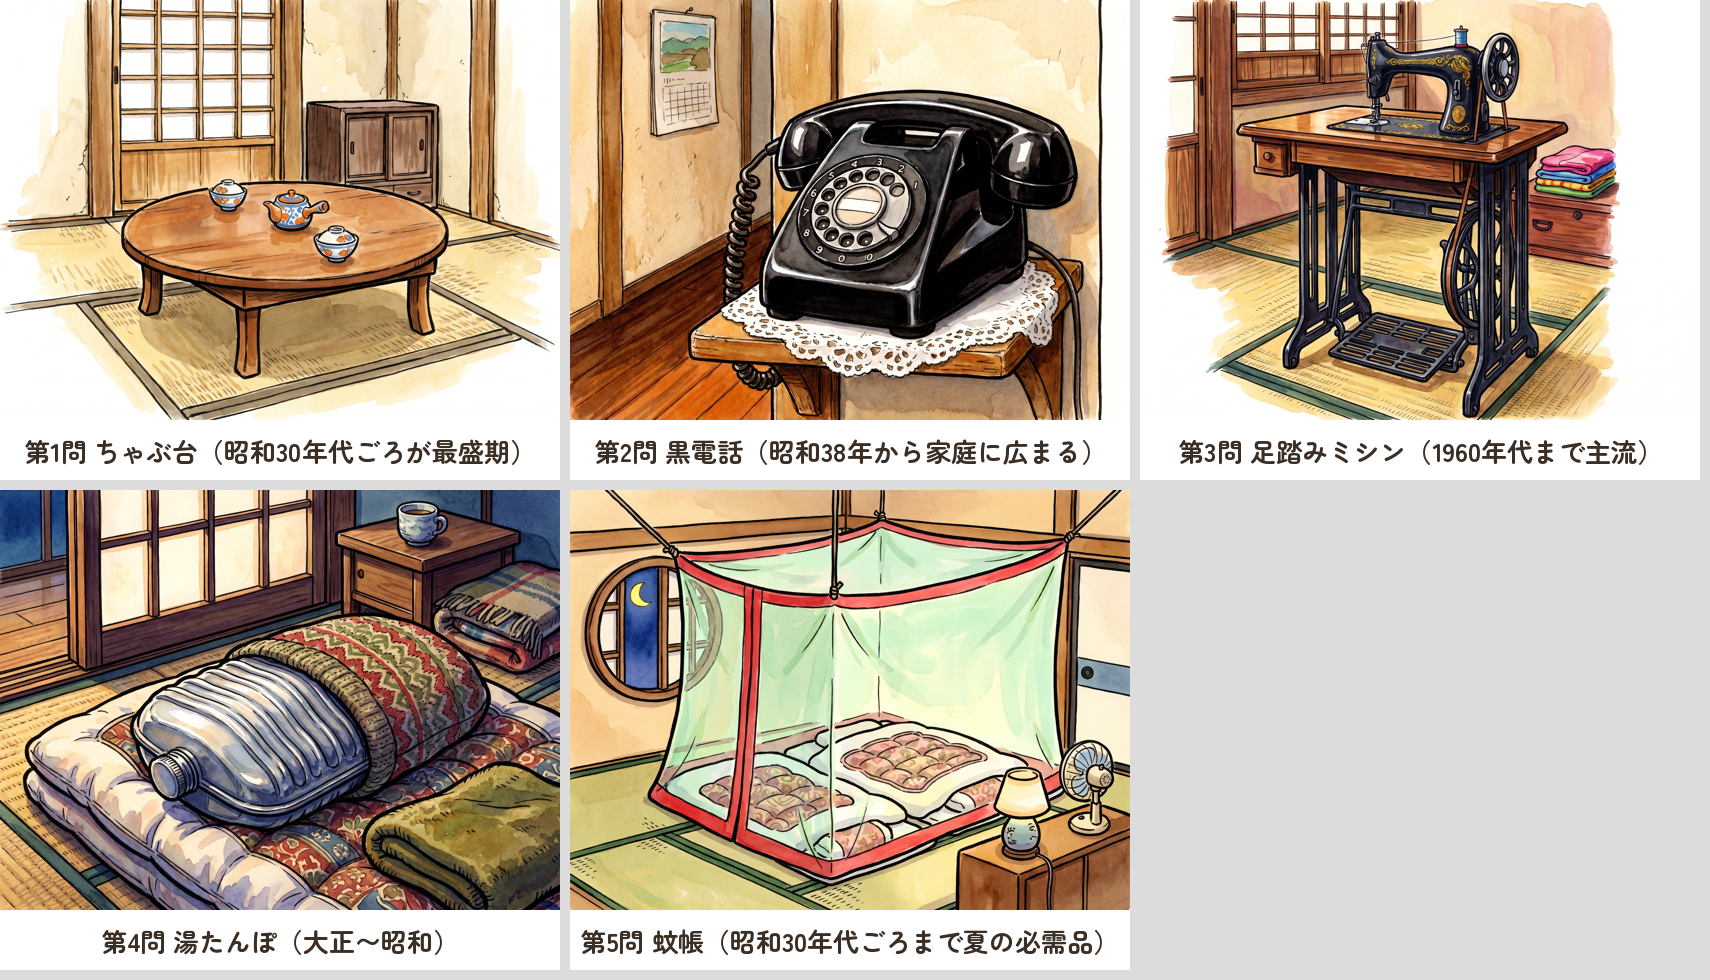
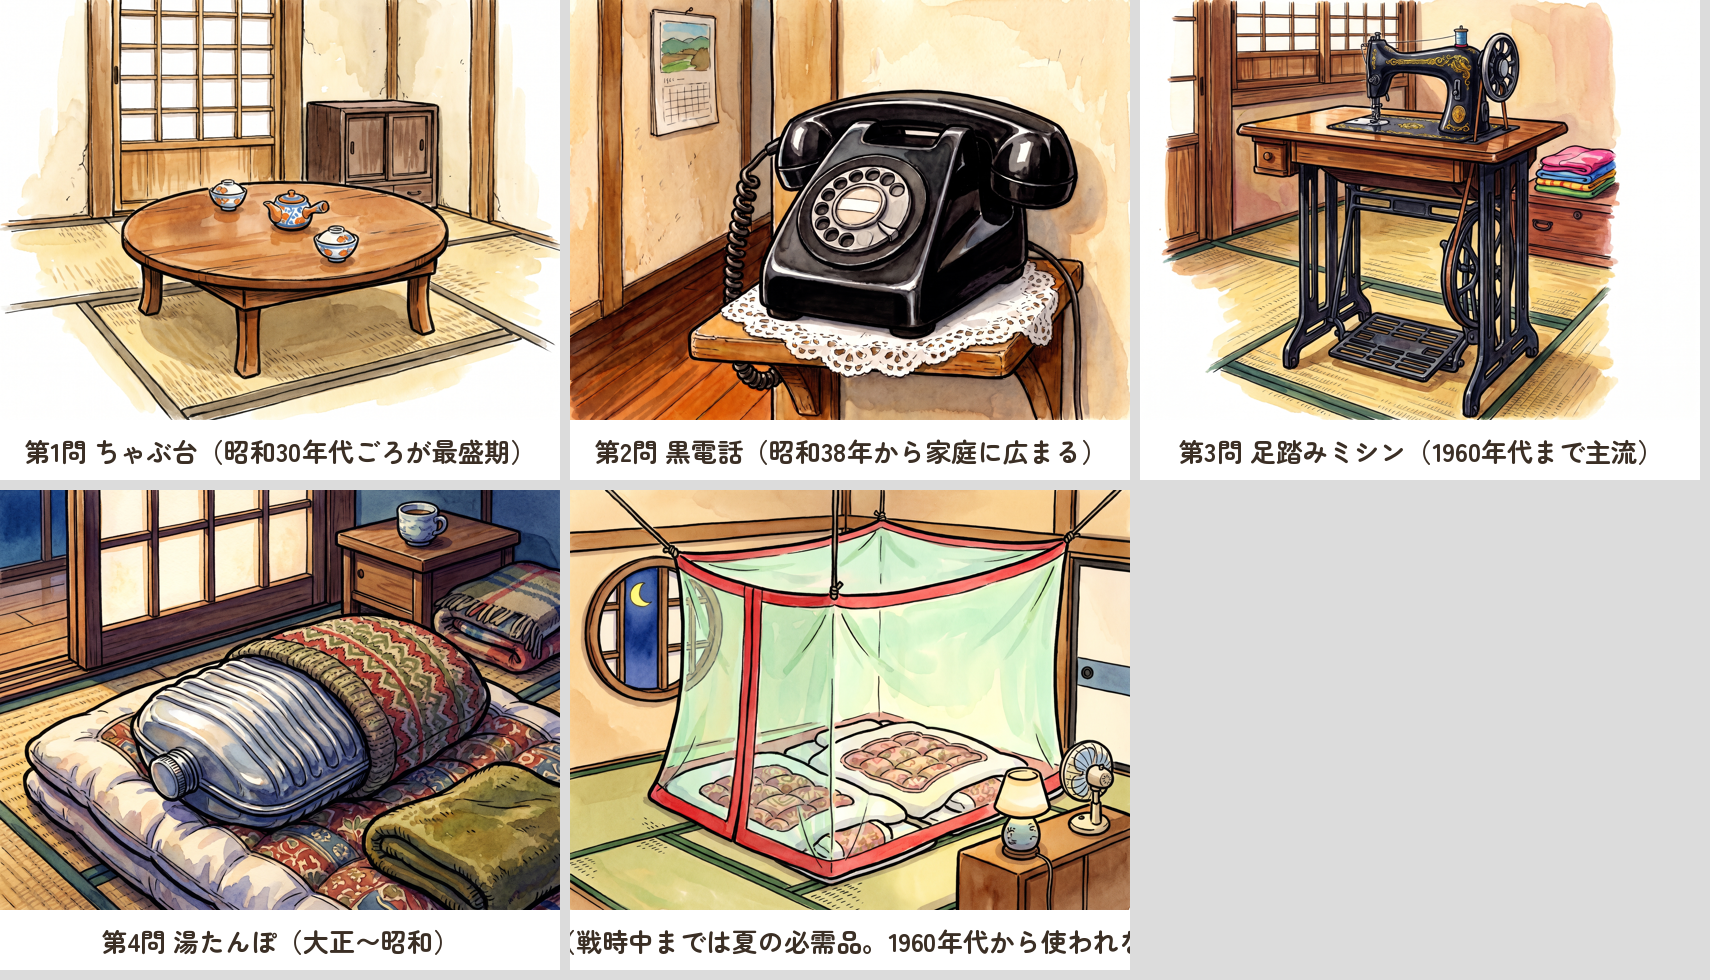
昭和なつかしクイズ 試作001：監査の指摘（黒電話のダイヤル・豆知識のはみ出し）を直して合格
Claude-Session: https://claude.ai/code/session_01RF3BnfrPSRk1U21VXW6Yry

Changed region(s): [[0.6199, 0.0, 0.6819, 0.4286], [0.3409, 0.949, 0.6509, 0.9796], [0.4959, 0.2143, 0.5269, 0.2755]]

diff --git a/scripts/showa_quiz.py b/scripts/showa_quiz.py
@@ -217,10 +217,13 @@ def frame_long(P, work, st, t, cache):
         name = it["name"]; sz = 130 if len(name) <= 4 else 96
         draw_center(d, (px, 420), name, f_bold(sz), INK)
         draw_center(d, (px, 540), f"（{it['reading']}）", f_round(44), (110, 84, 60))
-        if k == "trivia":
-            lines = wrap(it["trivia"], 11)
+        if k == "trivia":       # 右の欄（x 1310〜1910）の中に収める
+            fz = 50
+            lines = wrap_px(it["trivia"], f_round(fz), 560)
+            while len(lines) > 4:
+                fz -= 4; lines = wrap_px(it["trivia"], f_round(fz), 560)
             for i, l in enumerate(lines):
-                draw_center(d, (px, 680 + i * 70), l, f_round(52), INK)
+                draw_center(d, (px, 680 + i * (fz + 18)), l, f_round(fz), INK)
     return im
 
 
@@ -238,6 +241,28 @@ def wrap(s, n):
             res.append(l[:n]); l = l[n:]
         res.append(l)
     return res
+
+
+def wrap_px(s, f, maxw):
+    """文を、実際の文字幅（px）で maxw に収まるように改行する。読点・句点・助詞のあとを優先して切る（2026-11-18 監査 M-2）。"""
+    d = ImageDraw.Draw(Image.new("RGB", (10, 10)))
+    lines, cur, last_break = [], "", -1
+    for ch in s:
+        if d.textlength(cur + ch, font=f) > maxw and cur and ch not in "、。」）":   # 句読点は行の頭に置かない（前の行の終わりにぶら下げる）
+            if last_break > 0 and last_break >= len(cur) // 2:
+                lines.append(cur[:last_break]); cur = cur[last_break:]
+            else:
+                lines.append(cur); cur = ""
+            last_break = -1
+        cur += ch
+        if ch in "、。」）":
+            last_break = len(cur)
+    if cur:
+        lines.append(cur)
+    for l in lines:     # 念のため：枠をはみ出す行があれば止める
+        if d.textlength(l.rstrip("、。」）"), font=f) > maxw + 1:
+            raise SystemExit(f"文字が枠に収まらない：{l}")
+    return lines
 
 
 def subtitle(im, sub, W, H, y, size):
@@ -265,8 +290,8 @@ def frame_short(P, work, st, t, cache, end=False, t_end=0):
     if k in ("ans", "trivia"):
         draw_center(d, (W / 2, 1150), "答え", f_bold(64), (180, 70, 40))
         draw_center(d, (W / 2, 1270), it["name"], f_bold(130 if len(it["name"]) <= 4 else 100), INK)
-        if k == "trivia":
-            for i, l in enumerate(wrap(it["trivia"], 13)[:3]):
+        if k == "trivia":       # 左右36pxより内側（幅 900px まで）に収める
+            for i, l in enumerate(wrap_px(it["trivia"], f_round(54), 900)[:3]):
                 draw_center(d, (W / 2, 1410 + i * 66), l, f_round(54), INK)
     # 最初：暗い幕と大きな文字（ショートの形 2026-11-18 夜）
     if st.get("intro"):

diff --git a/outputs/prototypes/showa_quiz_001/audit.md b/outputs/prototypes/showa_quiz_001/audit.md
@@ -1,0 +1,63 @@
+# 品質監査：昭和なつかしクイズ 試作001（2026-11-18）
+
+- 審査：品質監査（独立・標準モデル）。作成：事業部長。CEO評価用の試作（公開・アップロードしない）。
+- 見たもの：plan.json、sources.md、readings_check.md、voice.json（~/.cache/koyomi/showa_quiz_001/voice/）、items_sheet.png、thumbnail.jpg、long_timeline.json、long.mp4（1920×1080・151.4秒）から数コマ（全体の一覧1枚＋答えの画面の拡大）、short2.mp4（1080×1920・33.7秒）から8コマ、scripts/showa_quiz.py の書体の指定。
+- 動画全体は見直していない（社則7章）。
+
+## 判定：不合格（差し戻し1回目）
+
+### 重大（直すもの）
+
+**M-1 第2問 黒電話のダイヤルの数字が実物と違う（事実の誤り・絵）**
+- どこが：item2 の絵。ダイヤルの外側に「1 2 3 4 5 6 7 8 9 0 10」と数字が11個あり、存在しない「10」がある（long.mp4 46秒の拡大で確認。サムネ・長尺・ショートの3か所に同じ絵）。
+- なぜ：この形式は「道具そのもの」が中身で、見る人は黒電話を毎日使った世代。実物にない数字はすぐ気づかれ、「AIの絵」と信頼を落とす。plan.json の絵の指示「Absolutely no ... numbers」にも反している。道具としてはひと目で黒電話とわかるが、絵の中の事実が誤っている。
+- どう直すか：item2 だけ描き直す（ダイヤルの数字は描かせない、または指穴の中に1〜9・0の10個だけ）。数字・指穴の数を拡大で確かめてから、長尺・ショート・サムネを書き出し直す。他の4枚は触らない。
+
+**M-2 長尺の答えの画面で、豆知識の文字が右の枠からはみ出し、画面の端で切れる（字が欠ける）**
+- どこが：
+  - 第2問（58.5秒）：2行目「ダイヤルを回してかけました。」が右の画面端（x=1920）まで届き「。」が出ていない。左は絵の上にかかる。
+  - 第5問（137.5秒）：1行目「萌黄色の網に、赤い縁取りが」の「が」の濁点が右端で切れ、「縁取りか」に見える。左の「萌」は絵の上（扇風機）にかかる。
+  - 第3問（85秒）：「踏み板を踏むと、ベルトで」が右端ぎりぎりで、左は絵にかかる。
+- なぜ：画面上の文字が欠けて別の字に見える（誤字と同じ扱い）。絵の上に文字が重なる。
+- どう直すか：豆知識の折り返し幅を右の枠の中（枠の左右に40px以上の余白）に固定し、読点の位置で改行する。書き出し前に、文字の外枠が枠の中に入るかをプログラムで判定する。動画の書き出しは M-1 とまとめて最後に1回。
+
+### 合格した項目
+- 答え・読み：ちゃぶ台（ちゃぶだい）・黒電話（くろでんわ）・足踏みミシン（あしぶみミシン）・湯たんぽ（ゆたんぽ）・蚊帳（かや）は sources.md と一致。ヒントの最初の文字「ち・く・あ・ゆ・か」は正しく、画面のヒント・答えの表示と声の文（voice.json）が一致。答えの表示は timeline どおりの時刻に出ている。
+- 豆知識：ちゃぶ台（脚を折りたためる物が多い＝コトバンク本文）、足踏みミシン（踏み板→ベルト→はずみ車＝コトバンク本文）、湯たんぽ（「たんぽ」は「湯婆」の唐音から＝コトバンク本文。「といわれます」と控えめ）、蚊帳（萌黄色の網に赤い縁＝コトバンク・Wikipedia本文）は出典どおり。
+- 医学的な効果：なし（湯たんぽ・蚊帳とも効果の言い方なし）。
+- 読み：voice.json の声に渡す文30行すべてに漢字なし。読みも正しい（ぜんごもん、だいよんもん、はずみぐるま、ふちどり、もえぎいろ、湯婆＝たんぽ、ひだりした、ちょうせん）。
+- 絵：5枚とも、ひと目でその道具とわかる（ちゃぶ台の丸い低い天板、黒電話の受話器とダイヤル、ミシンの踏み板・はずみ車・ベルト、湯たんぽの波型の金属と栓、蚊帳の緑の網と赤い縁）。水彩・太めの墨の線、背景（障子・畳・壁・窓）まで描かれている。時代に合わない物は見当たらない（蚊帳の場面の扇風機・電気スタンドは昭和30年代にあり得る。夏の物は夏の場面）。
+- ショート：最初と最後の暗い幕（約55%）と真ん中の大きな文字（太い角ゴシック）、最後に「続きは長い動画で」「左下をクリック」と左下を指す矢印、声は基準どおり。文字は左右60px以上・上は約170px以降で、左右36px・上120pxにかからない。8秒のカウントとヒント「く」あり。
+- サムネ：Noto Sans JP Black（太い角ゴシック、showa_quiz.py の BOLD）。「昭和なつかしクイズ／これ なに？／全5問」で意味のまとまりで色分け。医療表現なし。
+
+### 軽微（記録だけ。本番で直す）
+1. 第2問の豆知識「数字の穴に指を入れて、ダイヤルを回してかけました」は sources.md の推奨文（昭和46年から色が増えた）と違い、出典本文に直接の記述がない。ダイヤル式という定義から明らかで誤りではないが、本番では出典のある文にするか出典を足す。M-1 の絵（数字が穴の外）とも少し合わない。
+2. 年代（items_sheet のみ。動画・声には出ていない）：蚊帳「昭和30年代ごろまで夏の必需品」は出典（戦時中まで必需品、1960年代以降使われなくなった）より強い。使うなら「昭和の夏の定番」程度に。黒電話「昭和38年から」は Wikipedia だけ（NTT本文は未確認）。
+3. 第4問の字幕「湯婆」にふりがながない（「ゆば」と読まれうる）。
+4. 豆知識の改行が語の途中（第1問「折りた／ためる」、第4問「中国の言／葉」）。M-2 の直しで読点改行にすれば解消。
+5. 黒電話の絵の右端に白い縁（サムネ・長尺）。
+6. 長尺の下の字幕帯の文字が小さい（右の大きな文字と同じ内容なので軽微）。
+7. ショート：上の「昭和なつかしクイズ」の文字が常に出ている、絵が4:3で上寄せ・下に空き、豆知識の文字が小さい（約44px）。shorts.md「画面は絵だけ」は間違い探し用の決まりのため、このジャンルのショートの画面はCEOに確認をすすめる。ショート用に縦長の絵を作れば絵を大きくできる。
+8. plan.json の絵の指示が「8:9」、生成の aspect が「4:3」で食い違う。
+
+## 再審査で見るもの（M-1・M-2 だけ）
+- item2 の描き直し版の拡大1枚（ダイヤルの数字・指穴）。
+- 書き出し直した long.mp4 の答えの画面3コマ（第2・3・5問）、サムネ、short2 の答えのコマ1枚。
+
+---
+
+# 再審査1（2026-11-18・M-1・M-2 だけ）
+
+見たもの：~/.cache/koyomi/showa_quiz_001/item2.png（23:00版）のダイヤルの拡大、items_sheet.png の第2問、thumbnail.jpg、long.mp4（23:03版）の答えの画面3コマ（59秒・85秒・138秒）、short2.mp4（23:04版）の答えのコマ（26秒）。ほかの箇所は見直していない。
+
+## 判定：合格（軽微あり）
+
+- **M-1 解消。** ダイヤルの数字はなくなった。指穴は10個（上5・左下5）で、指止めのそばに空きがあり、実物の並びに近い。items_sheet・サムネ・ショートの大きさでも、ひと目で黒電話とわかる。右端の白い縁は、サムネ・items_sheet では見えない。
+- **M-2 解消。** 第2問・第3問・第5問とショートの豆知識が、すべて枠の中に収まっている。画面の端で切れる字はなく、絵にもかからない（第5問の行の左端と絵の間は約20px）。行の頭に句読点はない。
+
+## 軽微（記録だけ）
+1. 埋めた11個目の穴の跡（指止めの左下のうすい丸）は、元の絵の拡大でだけわかる。items_sheet・サムネの大きさでは見えない。
+2. 長尺の第2問の豆知識が「かけま／した。」と語の途中で改行される。字が欠けてはいない。改行を読点の位置にそろえると、なお読みやすい。
+3. item2.png の右端の中ほどに、白っぽい列が最大7pxある。画面では見えない。
+
+差し戻し1回のあとの合格（一発合格ではない）。

diff --git a/departments/audit/log.md b/departments/audit/log.md
@@ -68,3 +68,5 @@
 | 2026-11-18 | 010 長尺（再審査1・第4問③・第5問①だけ） | q4_b/q5_b（14:19版）・zoom・check.json（video.mp4 書き出し直し版） | 合格（軽微あり） | L-1 解消：右どなりのカップケーキは元のまま、境目なし（x≥1690 の差は box 端からのぼかし10px以内）。L-2 解消：もみじ1枚、切れ端・白いふちなし。第4問①に context 追加、short タイトルに「秋」。check の problems なし。軽微は前回のまま。説明欄（ショート）は長尺アップ後に確認。差し戻し1回のあとの合格（一発合格ではない）。 |
 | 2026-11-18 | 010 ショート2（再審査1・第4問③だけ） | short2/phone_question.png・short2/check.json（書き出し直し版） | 合格（軽微あり） | L-1 解消（長尺と同じ絵）。check の problems なし。差し戻し1回のあとの合格。公開は長尺の合格の後（長尺も合格済み）。 |
 | 2026-11-18 | 010 長尺（CEO指示の修正・第1問とサムネだけ。差し戻しの回数に入れない） | q1_a/q1_b（21:51版）・answers.json 第1問・readings q1_ans1〜3・zoom・phone_sheet・thumbnail.jpg・ab/thumb_A〜C・check.json | 合格（軽微あり） | 風鈴を小さな赤いちょうちんに描き直し。違いは①ひしゃくがない7.6%（なくなる）②ちょうちんが黄8.14%（色）③うちわが赤8.05%（色）で、跡なし、box の外の差は8px以内、スマホ大でも見える。読みは正しい。うちわは炭火をあおぐ道具で自然。サムネ3案は Noto Sans CJK JP Black＋縁取り。軽微：元のうちわの柄が花の模様で少し夏っぽい。 |
+| 2026-11-18 | 昭和なつかしクイズ 試作001（CEO評価用・非公開。作成：事業部長） | plan.json・sources.md・readings_check.md・voice.json・items_sheet.png・thumbnail.jpg・long_timeline.json・long.mp4（151.4秒）と short2.mp4（33.7秒）の数コマ | 不合格（差し戻し） | 重大 M-1：第2問 黒電話のダイヤルに数字が11個（「0」と存在しない「10」）。サムネ・長尺・ショート共通。plan の no numbers にも反する。→ item2 だけ描き直し（数字なし、または1〜9・0の10個）。重大 M-2：長尺の答えの画面で豆知識が右枠からはみ出し、画面端で切れる（第5問「縁取りが」→「縁取りか」、第2問「かけました。」の句点が出ない、第3問も端ぎりぎり・絵にかかる）。→ 折り返し幅を枠内に固定し読点で改行、枠内判定をプログラムで。合格：答え5つ・読み・ヒント・豆知識4つは出典どおり、声の文30行に漢字なし、医療表現なし、絵5枚はひと目でわかり水彩・太線・背景あり、ショートの幕・大きな文字・矢印・余白、サムネ太い角ゴシック。軽微：黒電話の豆知識が出典の文と違う、蚊帳の年代表現が出典より強い（items_sheetのみ）、「湯婆」にふりがななし、語の途中の改行、黒電話の絵の右の白い縁、字幕帯が小さい、ショートの上の文字・4:3の絵（ジャンル用の画面はCEO確認）、plan の 8:9 と 4:3 の食い違い。詳細は outputs/prototypes/showa_quiz_001/audit.md。差し戻し1回目。 |
+| 2026-11-18 | 昭和なつかしクイズ 試作001（再審査1・M-1・M-2 だけ） | item2.png（23:00版）のダイヤルの拡大・items_sheet.png 第2問・thumbnail.jpg・long.mp4（23:03版）の答えの画面3コマ・short2.mp4（23:04版）の答えのコマ | 合格（軽微あり） | M-1 解消：ダイヤルの数字なし、指穴10個、指止めのそばに空き。どの大きさでも黒電話とわかる。M-2 解消：豆知識は第2・3・5問とショートで枠内、端で切れる字なし、絵にかからない。軽微：埋めた穴のうすい跡（拡大でのみ見える）、第2問の「かけま／した」の語の途中の改行、item2 の右端に白っぽい列（最大7px・画面では見えない）。差し戻し1回のあとの合格（一発合格ではない）。 |
